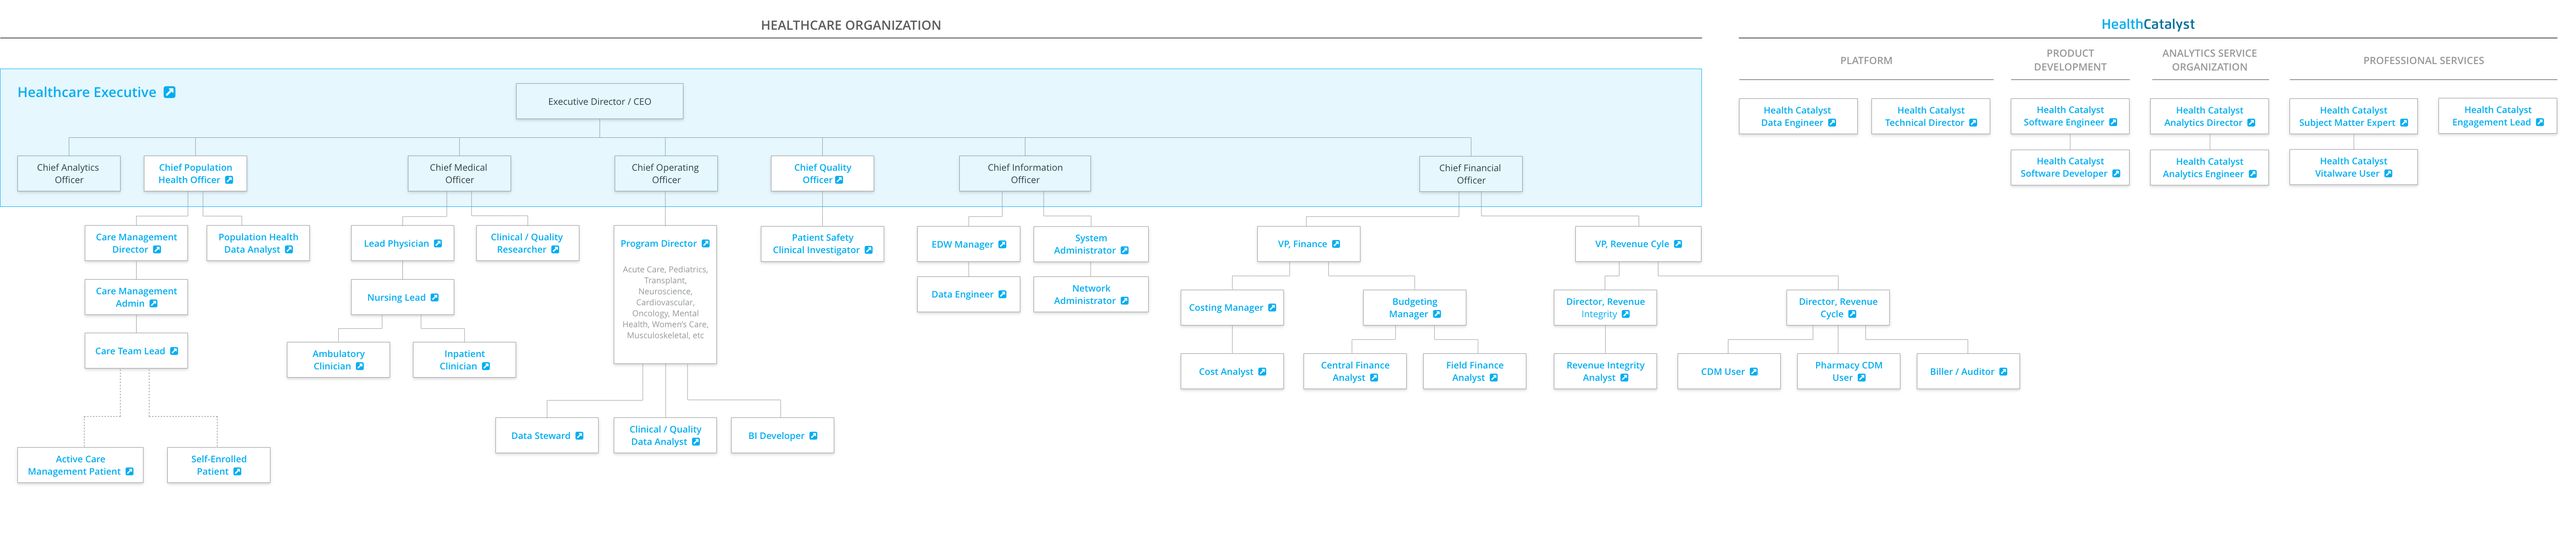
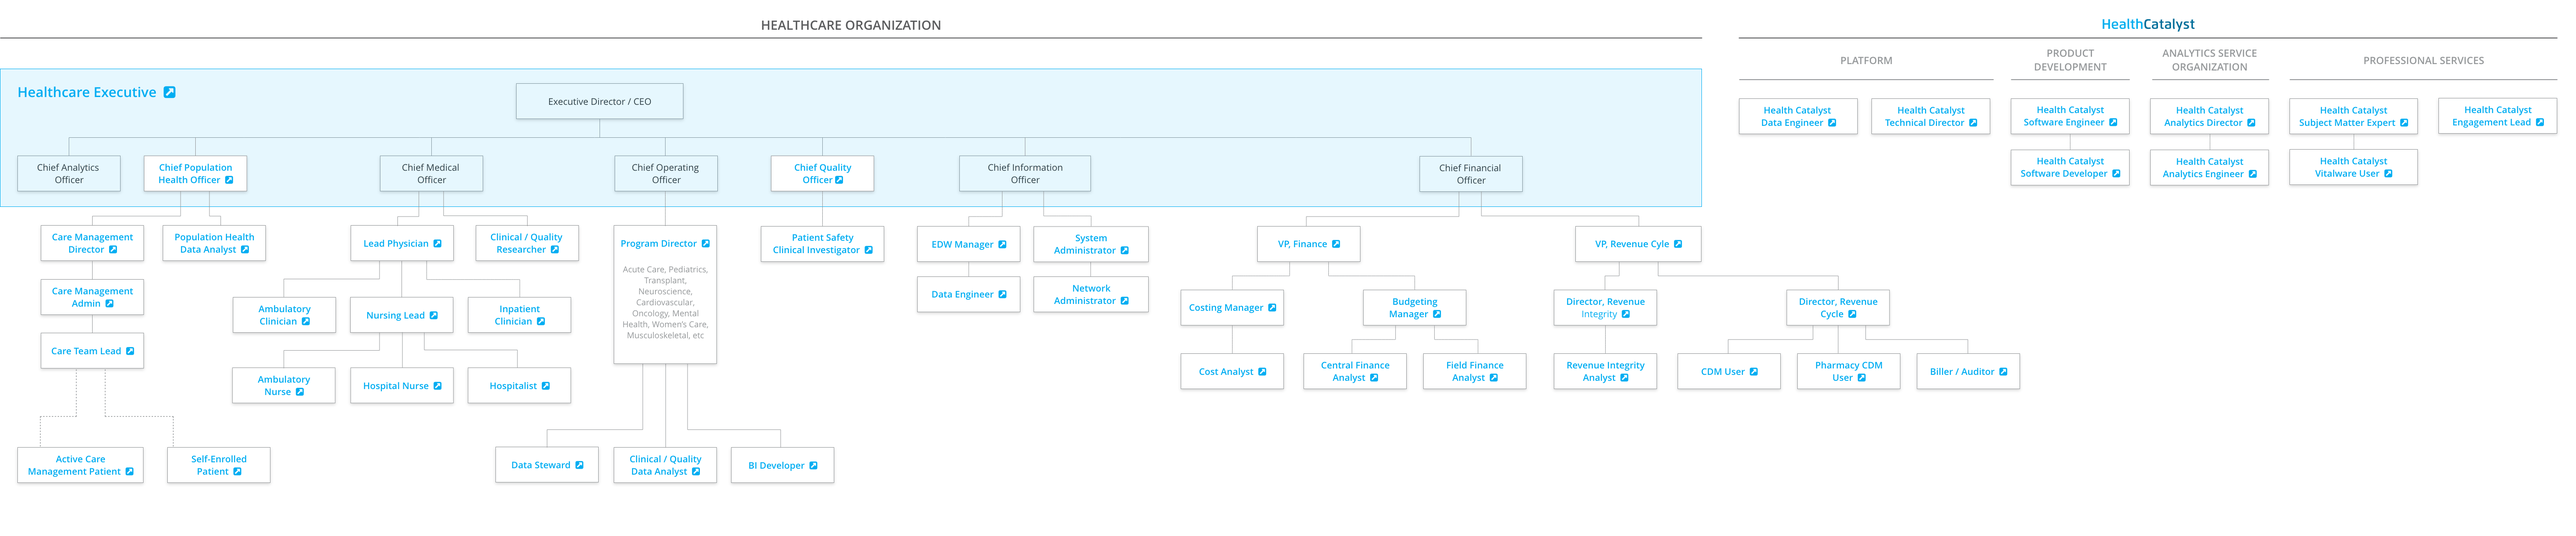
docs(personas): healthfinch personas

diff --git a/src/app/content/personas/persona-org/persona-org.component.html b/src/app/content/personas/persona-org/persona-org.component.html
@@ -41,28 +41,32 @@
     <area id="Healthcare Executive Right" shape="rect" coords="945,167,1840,207" [queryParams]="{referrer: 'chart'}" routerLink="/content/personas/healthcare-executive">
     <area id="Healthcare Executive Bottom" shape="rect" coords="0,207,1840,224" [queryParams]="{referrer: 'chart'}" routerLink="/content/personas/healthcare-executive">
 
-    <area id="Care Management Director" shape="rect" coords="88,238,210,287" [queryParams]="{referrer: 'chart'}" routerLink="/content/personas/care-management-director">
-    <area id="Care Management Admin" shape="rect" coords="88,298,210,347" [queryParams]="{referrer: 'chart'}" routerLink="/content/personas/care-management-admin">
-    <area id="Care Coordinator" shape="rect" coords="88,354,209,405" [queryParams]="{referrer: 'chart'}" routerLink="/content/personas/care-team-lead">
+    <area id="Care Management Director" shape="rect" coords="40,238,239,287" [queryParams]="{referrer: 'chart'}" routerLink="/content/personas/care-management-director">
+    <area id="Care Management Admin" shape="rect" coords="40,298,239,347" [queryParams]="{referrer: 'chart'}" routerLink="/content/personas/care-management-admin">
+    <area id="Care Coordinator" shape="rect" coords="40,354,239,405" [queryParams]="{referrer: 'chart'}" routerLink="/content/personas/care-team-lead">
 
     <area id="Active Care Mgmt Patient" shape="rect" coords="14,479,160,527" [queryParams]="{referrer: 'chart'}" routerLink="/content/personas/active-care-management-patient">
     <area id="Self-Enrolled Patient" shape="rect" coords="173,479,300,527" [queryParams]="{referrer: 'chart'}" routerLink="/content/personas/self-enrolled-patient">
 
-    <area id="Pop Health Data Analyst" shape="rect" coords="216,238,342,287" [queryParams]="{referrer: 'chart'}" routerLink="/content/personas/population-health-analyst">
+    <area id="Pop Health Data Analyst" shape="rect" coords="169,238,295,287" [queryParams]="{referrer: 'chart'}" routerLink="/content/personas/population-health-analyst">
 
     <area id="Lead Physician" shape="rect" coords="373,238,495,290" [queryParams]="{referrer: 'chart'}" routerLink="/content/personas/lead-physician">
-    <area id="Nursing Lead" shape="rect" coords="373,298,496,347" [queryParams]="{referrer: 'chart'}" routerLink="/content/personas/nursing-lead">
-    <area id="Ambulatory Provider" shape="rect" coords="305,363,428,416" [queryParams]="{referrer: 'chart'}" routerLink="/content/personas/ambulatory-clinician">
-    <area id="Inpatient Provider" shape="rect" coords="439,364,562,417" [queryParams]="{referrer: 'chart'}" routerLink="/content/personas/inpatient-clinician">
+    <area id="Ambulatory Provider" shape="rect" coords="246,316,369,369" [queryParams]="{referrer: 'chart'}" routerLink="/content/personas/ambulatory-clinician">
+    <area id="Inpatient Provider" shape="rect" coords="501,316,624,369" [queryParams]="{referrer: 'chart'}" routerLink="/content/personas/inpatient-clinician">
     <area id="Clinical Researcher" shape="rect" coords="510,238,632,288" [queryParams]="{referrer: 'chart'}" routerLink="/content/personas/clinical-quality-researcher">
+    <area id="Nursing Lead" shape="rect" coords="373,316,496,369" [queryParams]="{referrer: 'chart'}" routerLink="/content/personas/nursing-lead">
+
+    <area id="Ambulatory Nurse" shape="rect" coords="245,391,368,444" [queryParams]="{referrer: 'chart'}" routerLink="/content/personas/ambulatory-nurse">
+    <area id="Hospital Nurse" shape="rect" coords="373,391,496,444" [queryParams]="{referrer: 'chart'}" routerLink="/content/personas/hospital-nurse">
+    <area id="Hospitalist" shape="rect" coords="501,391,624,444" [queryParams]="{referrer: 'chart'}" routerLink="/content/personas/hospitalist">
 
     <area id="Program Director" shape="rect" coords="658,238,780,400" [queryParams]="{referrer: 'chart'}" routerLink="/content/personas/program-director">
 
     <area id="Patient Safety Clinical Investigator" shape="rect" coords="815,238,962,290" [queryParams]="{referrer: 'chart'}" routerLink="/content/personas/patient-safety-clinical-investigator">
 
-    <area id="BI Developer" shape="rect" coords="784,445,908,498" [queryParams]="{referrer: 'chart'}" routerLink="/content/personas/bi-developer">
-    <area id="Clinical Data Analyst" shape="rect" coords="656,445,780,498" [queryParams]="{referrer: 'chart'}" routerLink="/content/personas/clinical-quality-data-analyst">
-    <area id="Data Steward" shape="rect" coords="528,445,653,498" [queryParams]="{referrer: 'chart'}" routerLink="/content/personas/data-steward">
+    <area id="BI Developer" shape="rect" coords="784,477,908,530" [queryParams]="{referrer: 'chart'}" routerLink="/content/personas/bi-developer">
+    <area id="Clinical Data Analyst" shape="rect" coords="656,477,780,530" [queryParams]="{referrer: 'chart'}" routerLink="/content/personas/clinical-quality-data-analyst">
+    <area id="Data Steward" shape="rect" coords="528,477,653,530" [queryParams]="{referrer: 'chart'}" routerLink="/content/personas/data-steward">
 
     <area id="EDW Manager" shape="rect" coords="981,238,1112,291" [queryParams]="{referrer: 'chart'}" routerLink="/content/personas/edw-manager">
     <area id="Data Engineer" shape="rect" coords="981,292,1112,345" [queryParams]="{referrer: 'chart'}" routerLink="/content/personas/data-engineer">

diff --git a/src/app/content/personas/persona-list.service.ts b/src/app/content/personas/persona-list.service.ts
@@ -23,6 +23,12 @@ export class PersonaService {
             document: require('raw-loader!../../../../guides/content/personas/ambulatory-clinician.md')
         },
         {
+            title: 'Ambulatory Nurse',
+            route: 'ambulatory-nurse',
+            type: 'external',
+            document: require('raw-loader!../../../../guides/content/personas/ambulatory-nurse.md')
+        },
+        {
             title: 'BI Developer',
             route: 'bi-developer',
             type: 'external',
@@ -177,6 +183,18 @@ export class PersonaService {
             route: 'healthcare-executive',
             type: 'external',
             document: require('raw-loader!../../../../guides/content/personas/healthcare-executive.md')
+        },
+        {
+            title: 'Hospitalist',
+            route: 'hospitalist',
+            type: 'external',
+            document: require('raw-loader!../../../../guides/content/personas/hospitalist.md')
+        },
+        {
+            title: 'Hospital Nurse',
+            route: 'hospital-nurse',
+            type: 'external',
+            document: require('raw-loader!../../../../guides/content/personas/hospital-nurse.md')
         },
         {
             title: 'Inpatient Clinician',

diff --git a/guides/content/personas/program-director.md b/guides/content/personas/program-director.md
@@ -1,6 +1,6 @@
 # Program Director
 
-###### Last updated Nov 30, 2020
+###### Last updated Apr 12, 2021
 
 :::
 
@@ -14,7 +14,11 @@
 
 ### Program Manager or Director / Domain Coordinator
 
-The program manager or director is accountable for performance and outcomes improvement in his domain area. This person is data savvy, especially with Excel; previously used to lots of manual data aggregation and delayed data (several months behind); frustrated with his ability to identify priorities or make interventions or due to data lag or lack of context; spends the bulk of his time on data curation rather than interventions.
+*"I need to identify priorities to drive clinical improvement, but I don’t trust the data, and it’s too hard to dig up what I need—even with the help of an analyst."*
+
+<br>
+
+Robert is accountable for performance and outcomes improvement in his domain area. He is data savvy, especially with Excel; previously used to lots of manual data aggregation and delayed data (several months behind); frustrated with his ability to identify priorities or make interventions or due to data lag or lack of context; and spends the bulk of his time on data curation rather than interventions.
 
 </div>
 
@@ -24,24 +28,25 @@ The program manager or director is accountable for performance and outcomes impr
 
 ## Goals
 
--   Improve performance (process & outcomes) in his domain area in the most meaningful way for the organization (i.e., improvements yield most vital benefits)
+-   Improve performance (process & outcomes) in his domain area in the most meaningful way for the organization (i.e., improvements that yield the most vital benefits)
+-   Help physicians understand the importance of documentation in the EHR and the impact on quality
 -   Take action / follow-up on cases where an identified process is not followed or an adverse outcome or trend is reported
 -   Initiate educational intervention in departments / facilities where adverse events, trends, or comparative performance are reported
 -   Prevent disease/condition, safety risks, or inappropriate utilization through interventions on a broader level (process redesign / triage processes / EMR alerts)
 -   Report to executive leadership on the state of improvement efforts such as harm prevention, utilization management, or quality improvement (high-level reports); make the case for the importance of improvement in this area
--   Report to physician advisory group on improvement efforts such as harm prevention, utilization management, or quality improvement (detailed reports); make the case for the importance of improvement in this area
+-   Report to the physician advisory group on improvement efforts such as harm prevention, utilization management, or quality improvement (detailed reports); make the case for the importance of improvement in this area
 -   Participate in multidisciplinary partnership / workgroup across the institution to address improvement efforts in a targeted area
 
 ---
 
 ## Needs
 
--   Quickly identify care gaps, over- or under-utilization, areas of under-performance, etc and be able to infer priorities for improvement work
--   Drill into specific cases to find enough details to investigate—or link to where he can find that information
+-   Quickly identify care gaps, over- or under-utilization, areas of under-performance, etc., and be able to infer priorities for improvement work
+-   Get input on what needs to be measured to meet goals
+-   Drill into specific cases to find enough details to investigate—or link to where to find that information
 -   Measure impact of specific interventions over time (exactly what the hospital system is undertaking)
 -   Benefit from automated measurement—more timely data that takes less time to collect, data with more context
 -   Use multiple methods to export data for effective communication (Excel, visualizations)
--   Share targeted feedback with frontline providers or nurses who may not be checking the app regularly (via EMR, email, or another mechanism)
-    -   This includes sharing information only applicable to a specific provider (not all providers)
+-   Share targeted feedback with frontline providers or nurses who may not be checking the app regularly (via EMR, email, or another mechanism)—including sharing information only applicable to a specific provider (not all providers)
 
 :::

diff --git a/guides/content/personas/hospitalist.md b/guides/content/personas/hospitalist.md
@@ -1,0 +1,50 @@
+# Hospitalist
+
+###### Last updated Apr 12, 2021
+
+:::
+
+<div class="persona-header">
+
+![Avatar Image](./assets/avatars/avatar12.svg)
+
+<div>
+
+# Stephanie Stina
+
+*"I can't find any info on what this patient has had done to him in the past. I need a way to easily glean the patient’s story when I come on shift."*
+
+<br>
+
+Stephanie is responsible for coordinating the care of hospital patients with specialists, as well as communicating the plan of care to patients and family members. She is also responsible for documenting patient visits using templates in the EHR; placing orders and prescribing medications at discharge; reviewing incoming test results to determine a patient’s care plan; assessing when a specialist is needed and ordering those referrals/consultations; and recording billing information (as needed) to support the hospital’s billing department.
+
+Stephanie is a good communicator with hospital staff and with patients and families. Despite the long hours and many responsibilities of her job, she feels that shift work as a hospitalist helps her maintain work-life balance.
+
+</div>
+
+</div>
+
+---
+
+## Goals
+
+-   Provide high-quality hospital care, as aligned with the latest guideline standards, while keeping cost of care and length of stay low
+-   Maintain high patient satisfaction by helping patients understand their illness/injury and achieve the medical goals set for them during their hospital stay
+-   Intervene with critical patients early and rapidly
+-   Recognize end of life; provide comfort care when applicable and discuss situations when care is doing more harm than good for the patient
+-   Complete required paperwork and electronic documentation more efficiently so that she can spend more time interacting with patients on a personal level
+-   Work better with the hospital staff and clinical care team, e.g., increase their trust and confidence in medical decision making and follow-up
+
+---
+
+## Needs
+
+-   Ability to respond to multiple urgent matters at the same time
+-   Quickly review all necessary data (not much time is allowed per patient)
+-   Ability to easily identify the trouble areas to prioritize during the visit
+-   Visibility into the patient’s past medical history (e.g., procedures and diagnoses from the last three years) to increase confidence when making treatment decisions
+-   Efficient means of communication with other providers to prevent delays in consultant or specialist follow up
+-   Focus on interactions with patients—not the EMR
+-   Timely notifications when new patients are admitted
+
+:::

diff --git a/guides/content/personas/ambulatory-clinician.md b/guides/content/personas/ambulatory-clinician.md
@@ -1,6 +1,6 @@
 # Ambulatory Clinician
 
-###### Last updated Nov 30, 2020
+###### Last updated Apr 12, 2021
 
 :::
 
@@ -14,7 +14,11 @@
 
 ### Physician, Nurse, Physician's Assistant, Social Worker, Community Health Worker, etc
 
-**Role:** may be an ordering provider and/or a care team member.
+*"It’s difficult to time balance electronic demands with the demands of patients right in front of me. I get irritated with extra clicks in the EMR or other workflow applications—and any other tasks that slow down my work."*
+
+<br>
+
+**Role:** May be an ordering provider and/or a care team member.
 -   *Ordering provider*: physician or physician equivalent who uses the EMR or other system to order and document care. May be attuned to organizational goals for population health, quality, financial targets, and utilization, but immediate goal is individual patient care in a fast-moving environment.
 -   *Care team member*: physician, physician equivalent, nurse, social worker, or other clinician who balances a clinical practice, including patients in care management programs.
 
@@ -28,18 +32,20 @@
 
 ## Goals
 
--   Use EMR or other electronic system to order medication, tests, or procedures.
+-   Use EMR or other electronic system to order medication, tests, or procedures
 -   Document care in EMR or other system
 -   Support transitions and care coordination: Review patient's ambulatory care plan at hospital admission or upon presenting at the clinic; identify whether patient is enrolled in care management; identify patient needs and actions by care management team; review high-level summary of patient care history and previous interventions
-
+-   Efficiently and easily share information about my patients with other providers
+-   Spend less time completing administrative or duplicative tasks that get in the way of patient care (e.g., by delegating some tasks to practice staff)
+-   Communicate effectively with patients by providing information and directions they can understand
 
 ---
 
 ## Needs
 
--   Tools that integrate with their EMR workflow and do not create additional work for them
--   Access to review patient analytics in their EMR workflow
--   Easy way to know if the patient has an ambulatory care team and review patient's care plan
+-   Tools that integrate with the EMR workflow and do not create additional work
+-   Access to review patient analytics in the EMR workflow
+-   Easy way to know if the patient has an ambulatory care team and to review the patient's care plan
 -   Ability to view / communicate with the patient's care team
 
 :::

diff --git a/guides/content/personas/hospital-nurse.md b/guides/content/personas/hospital-nurse.md
@@ -1,0 +1,49 @@
+# Hospital Nurse
+
+###### Last updated Apr 12, 2021
+
+:::
+
+<div class="persona-header">
+
+![Avatar Image](./assets/avatars/avatar38.svg)
+
+<div>
+
+# Jessie Rashmi
+
+*"I love getting alerts and patient information—and being able to contact staff all in the same place."*
+
+<br>
+
+Jessie must quickly and efficiently shift priorities based on overall patient load, changes to individual patient acuity, staffing, and planned and unplanned procedures. He is a good communicator with clinical and non-clinical staff, as well as with patients and their families, interacting successfully with healthcare teams and de-escalating conflict when needed. He has a basic knowledge of disease processes, medications, and procedures. He stays aware of patients’ physiological, psychosocial, and mental health needs.
+
+</div>
+
+</div>
+
+---
+
+## Goals
+
+-   Ensure that all patients receive their medications and other treatments on time
+-   Educate patients on a healthy lifestyle (medications, nutrition, exercise, durable medical equipment), and observe the patient putting the education into action
+-   Make sure each patient and family feels like they are getting the care and attention they need
+-   Organize the day to finish shift on time
+-   Complete all tasks; don’t leave a lot of extra work for the next shift
+-   Ensure that patients are discharged in a timely manner so that waiting patients can use the beds
+-   Easily see and communicate each patient’s plan of care
+-   Seamlessly capture data during routine provision of care (document once versus many times) in order to focus more on patient care
+
+---
+
+## Needs
+
+-   Locate patient records in one place
+-   Communicate with healthcare team efficiently so that all primary team members are kept informed
+-   Spend less time recording large amounts of information and completing documentation—and more time with patients
+-   Accurate medication reconciliation/medication management
+-   Consistent documentation methods among all nurses
+-   Visibility into what is missing or what hasn’t been done, particularly around documentation
+
+:::

diff --git a/guides/content/personas/ambulatory-nurse.md b/guides/content/personas/ambulatory-nurse.md
@@ -1,0 +1,46 @@
+# Hospital Nurse
+
+###### Last updated Apr 12, 2021
+
+:::
+
+<div class="persona-header">
+
+![Avatar Image](./assets/avatars/avatar21.svg)
+
+<div>
+
+# Katarina Virág
+
+*"I have a big impact on the efficient flow in this organization. It’s rewarding, but when the tools I am using or other people slow me down, it can be stressful."*
+
+<br>
+
+When she gets to her office, Katarina reviews the patient schedule to see who is coming in. Katarina spends most of her day in the practice’s EHR system, reviewing patient records and documenting visits. Other tasks include cleaning/prepping equipment and explaining care regimens to patients. She’s tech savvy, using technology at home and work, and has years of experience using EHRs. She is frequently interrupted and distracted by the needs of the medical team and tries to focus as best she can on providing accurate patient documentation for her providers.
+
+</div>
+
+</div>
+
+---
+
+## Goals
+
+-   Make a patient feel better today
+-   Get all the patients out on time today
+-   Document the most accurate patient information so that providers can make proper diagnoses
+-   Help patients access the right information about their treatment plans
+-   Get additional EHR training to increase workflow efficiency
+
+---
+
+## Needs
+
+-   Visibility into what has changed / what is important in the domain area data set—especially relating to process.
+-   Ability to filter data by facility / department.
+-   Automated measurement.
+-   Access to data that helps identify and communicate process gaps / blocks
+-   Timely summary of process misses to enable immediate investigation
+-   List of prioritized patients along with prior and suggested interventions
+
+:::
